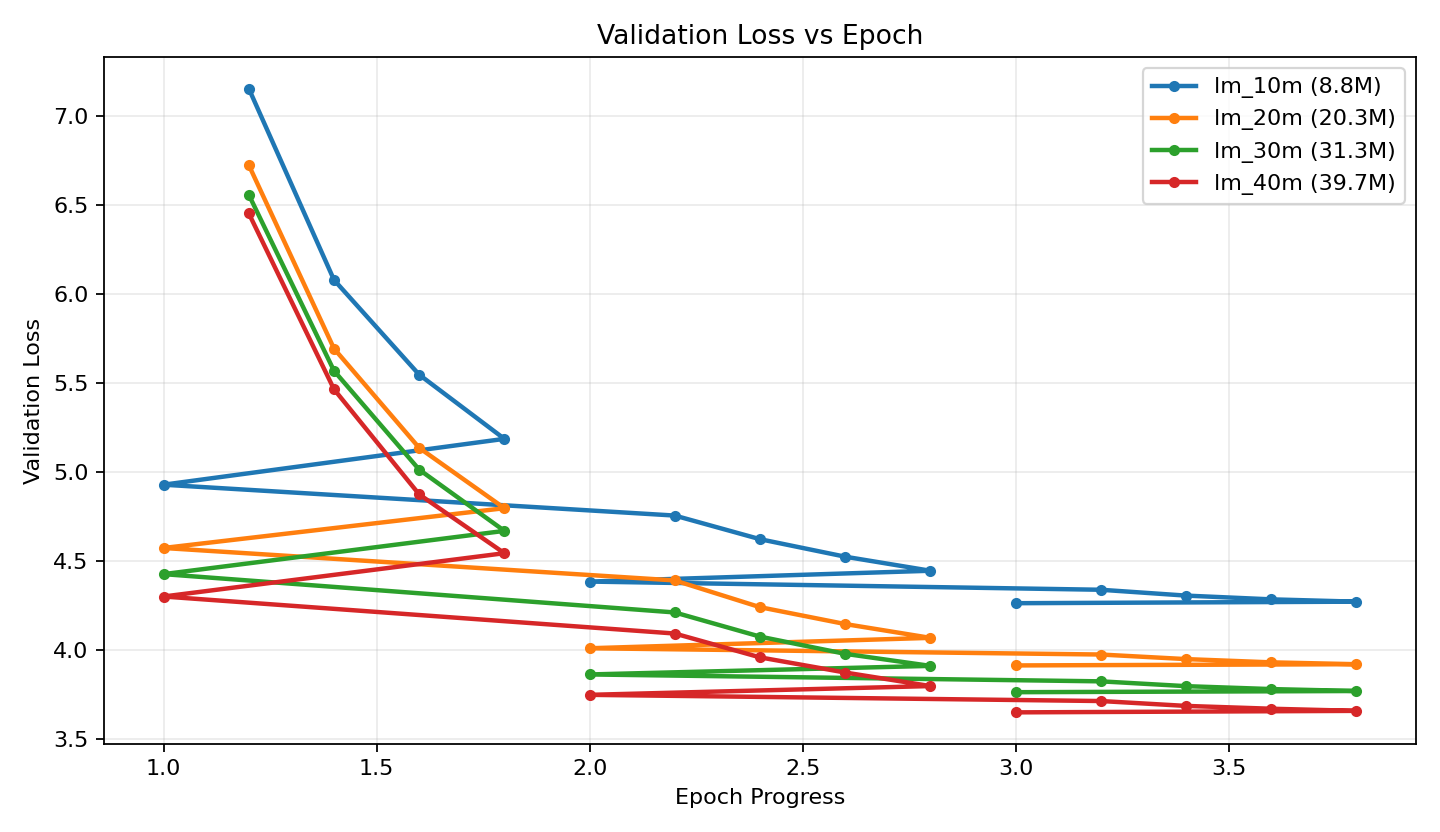
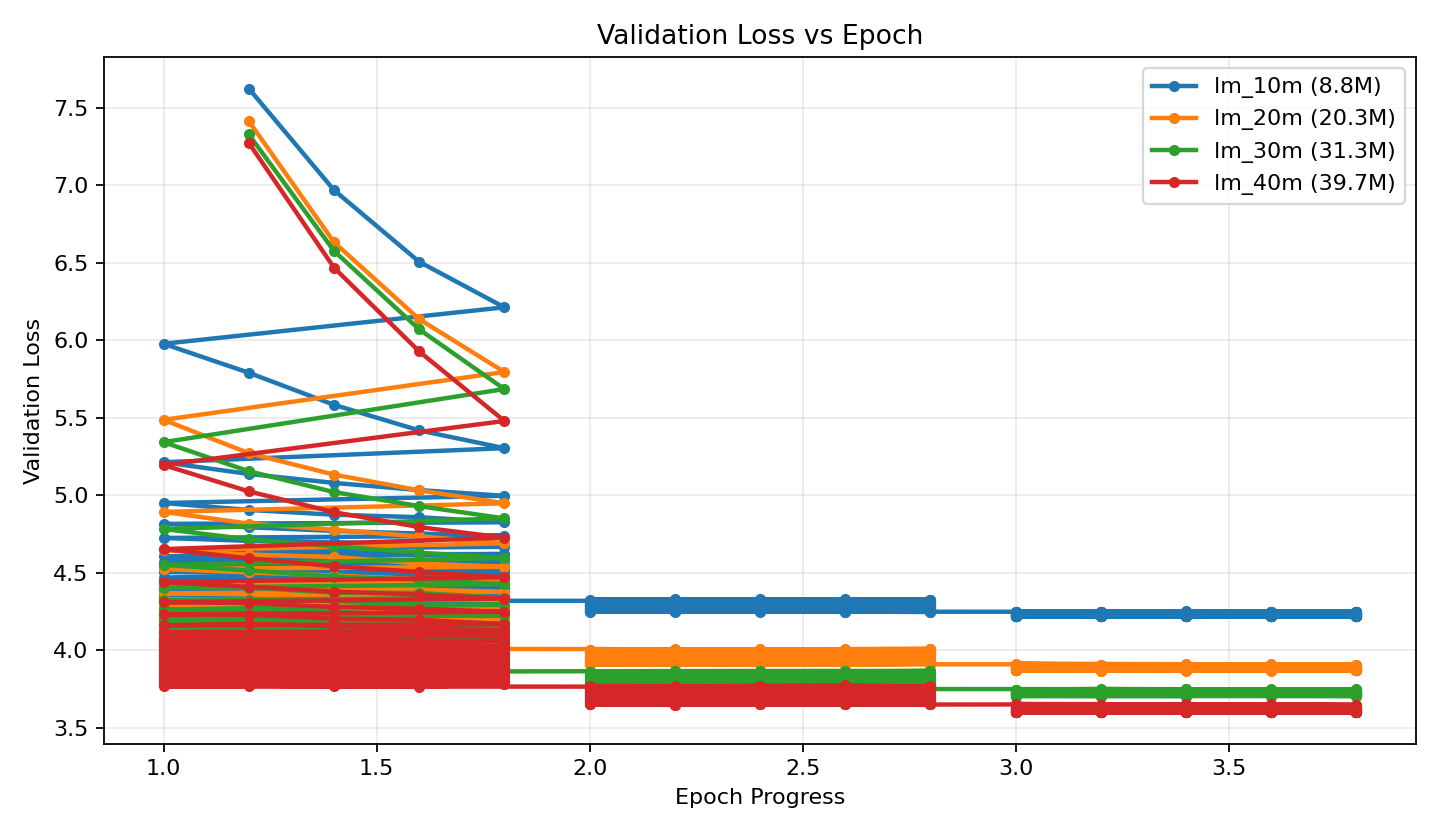
Add project docs and stage 1 results

diff --git a/README.md b/README.md
@@ -163,7 +163,7 @@ The packed LM dataset is built from `data/corpus.txt` into:
 
 The improved prose LM path also adds app-description sources so the base model sees smartphone and application-domain language before task finetuning. Current public sources include Google Play app metadata from MobileRec and Mac App Store description text. These are used as prose documents, not as scraped live store pages.
 
-The first model-size comparison processed about 123M cumulative training token slots over three epochs. That was useful for debugging, but it is still small for judging whether 10M, 20M, 30M, and 40M parameter decoders can learn useful language. The next train-split target is roughly 1B token slots while keeping the same document-style LM format.
+The current full model-size comparison processed about 4.071B cumulative training token slots over three epochs. This is large enough to show a clear size trend, but the generated text is still shallow and repetitive, so the result should be treated as a useful base-LM baseline rather than a finished language model.
 
 The expanded prose corpus can stream additional public text from:
 
@@ -200,39 +200,92 @@ Training launchers default to `--precision bf16` because BF16 uses the same 16-b
 
 For ablation runs, `--overwrite` means a fresh run. The launcher clears the same-name checkpoint/log output before starting and does not resume `latest.pt` or `best.pt`. Without `--overwrite`, it will resume an existing same-name checkpoint when available.
 
-## First Ablation Results
+## Iteration 3: 2026-06-15 Full Stage 1 Language Ablation
 
-The first controlled comparison used the same `lm_prose` dataset, 3 epochs, 7,500 training steps, 122.88M cumulative token slots processed, and 16,384 effective tokens per optimizer update for all four model sizes.
+All four Stage 1/base-LM model configs have now been trained on the same `lm_prose` corpus. In the training metadata this run is recorded as `stage=0`, but conceptually it is the Stage 1 base-language phase: no OCR, instruction, or autocomplete finetuning has been applied.
+
+Common training setup:
+
+- Dataset: `lm_prose`
+- Train rows: 5,309,400 packed 256-token chunks
+- Validation rows: 279,934 packed 256-token chunks
+- Epochs: 3
+- Steps: 248,500
+- Tokens/update: 16,384
+- Tokens seen per model: 4,071,424,000 token slots
+- Optimizer settings: `lr=0.0002`, `min_lr=0.00001`, `warmup_steps=1000`, `weight_decay=0.01`
+- Precision: BF16
+- Label smoothing: `0.0`
+- Output dirs: `checkpoints/lm_10m`, `checkpoints/lm_20m`, `checkpoints/lm_30m`, `checkpoints/lm_40m`
 
 ![Validation loss vs tokens seen](docs/plots/lm_val_loss_vs_tokens.png)
 
 ![Validation loss vs epoch](docs/plots/lm_val_loss_vs_epoch.png)
 
-| Experiment | Parameters | Batch | Accum | Tokens/update | Steps | Tokens seen | Validation loss |
+### Model Configs And Training Results
+
+| Experiment | Config | Layers | Hidden | Heads | FFN | Parameters | Batch | Accum | Final train loss | Final val loss | Final ppl |
+| --- | --- | ---: | ---: | ---: | ---: | ---: | ---: | ---: | ---: | ---: | ---: |
+| `lm_10m` | `model_config_10m.json` | 6 | 256 | 4 | 1,024 | 8,835,072 | 32 | 2 | 3.2237 | 4.2208 | 68.09 |
+| `lm_20m` | `model_config.json` | 8 | 384 | 6 | 1,536 | 20,340,480 | 16 | 4 | 2.8819 | 3.8677 | 47.83 |
+| `lm_30m` | `model_config_30m.json` | 10 | 448 | 7 | 1,792 | 31,311,616 | 8 | 8 | 2.7437 | 3.7047 | 40.64 |
+| `lm_40m` | `model_config_40m.json` | 10 | 512 | 8 | 2,048 | 39,716,864 | 4 | 16 | 2.6767 | 3.6010 | 36.63 |
+
+Best checkpoint metrics:
+
+| Experiment | Best step | Best val loss | Best ppl | Final step | Tokens/param | Train time | Tokens/sec |
 | --- | ---: | ---: | ---: | ---: | ---: | ---: | ---: |
-| `lm_10m` | 8,835,072 | 32 | 2 | 16,384 | 7,500 | 122,880,000 | 4.2634 |
-| `lm_20m` | 20,340,480 | 16 | 4 | 16,384 | 7,500 | 122,880,000 | 3.9137 |
-| `lm_30m` | 31,311,616 | 8 | 8 | 16,384 | 7,500 | 122,880,000 | 3.7632 |
-| `lm_40m` | 39,716,864 | 4 | 16 | 16,384 | 7,500 | 122,880,000 | 3.6499 |
+| `lm_10m` | 243,500 | 4.2178 | 67.88 | 248,500 | 460.83 | 1,687.7 min | 40,208 |
+| `lm_20m` | 248,500 | 3.8677 | 47.83 | 248,500 | 200.16 | 3,165.3 min | 21,438 |
+| `lm_30m` | 248,000 | 3.7042 | 40.62 | 248,500 | 130.03 | 4,930.0 min | 13,764 |
+| `lm_40m` | 247,000 | 3.5988 | 36.55 | 248,500 | 102.51 | 5,978.6 min | 11,350 |
 
-| Experiment | First val loss | Final val loss | Loss drop | Tokens/param | Train minutes | Tokens/sec |
-| --- | ---: | ---: | ---: | ---: | ---: | ---: |
-| `lm_10m` | 7.1565 | 4.2634 | 2.8930 | 13.91 | 43.4 | 47,202 |
-| `lm_20m` | 6.7263 | 3.9137 | 2.8126 | 6.04 | 84.9 | 24,126 |
-| `lm_30m` | 6.5595 | 3.7632 | 2.7963 | 3.92 | 130.1 | 15,744 |
-| `lm_40m` | 6.4547 | 3.6499 | 2.8049 | 3.09 | 156.0 | 13,127 |
+### Language Capability Level
 
-The validation loss improved steadily as parameter count increased. This is the expected direction and suggests that the ablation setup is useful. However, generated text was still weak, so this run should be treated as a pipeline baseline, not a solved base model.
+The strongest objective metric is validation loss on held-out packed prose. By that metric, model size helped consistently: `lm_40m` is best, then `lm_30m`, then `lm_20m`, then `lm_10m`.
 
-Technical notes from this result:
+Qualitative fixed-seed continuation checks on 2026-06-15 showed:
 
-- 122.88M cumulative token slots processed is too small to judge final tiny-LM capability.
-- The larger models benefited from capacity even under the same token budget.
-- The 40M model reached the best validation loss, but it trained about 3.6x slower than the 10M model on the same 4 GB RTX 3050 Laptop GPU.
-- The 10M model saw the most tokens per parameter but still had the worst validation loss, so token-per-parameter alone did not compensate for limited capacity in this setup.
-- All four curves were still descending at the end of 3 epochs, especially the larger models, which suggests the 122.88M-token-slot run was undertrained.
-- The train-loss column from this run was not a reliable cross-model comparison because the logging denominator was fixed after this run; validation loss is the cleaner signal.
-- The next train-split target is around 1B token slots so the same ablation can be repeated at a more meaningful scale.
+- `lm_10m`: can form English sentences, but loops simple phrases and generic words. Capability level: very weak base LM.
+- `lm_20m`: more sentence-like and sometimes topical, but still confuses domains and invents odd facts. Capability level: weak but usable for pipeline checks.
+- `lm_30m`: better grammar and topical consistency, but still repeats app-description style and shallow clauses. Capability level: early base LM.
+- `lm_40m`: best validation loss and most readable continuations, but still repetitive, generic, and not reliable. Capability level: best current base LM, not ready for task finetuning as a language backbone.
+
+Representative samples from `lm_40m`:
+
+```text
+The best place to visit in => the world. The best place to visit is where you can easily find and view more than one hundred people who can be visiting.
+A smartphone camera app can => be installed by using its iPhone or iPad. A mobile phone is a device that uses an iOS device...
+Machine learning is useful because => you are not only an engineer, but also a computer scientist. Features: - Easy to use, easy to use...
+```
+
+### Learnings
+
+- Capacity matters in this setup. The 40M model has the best final validation loss and about 46 percent lower perplexity than the 10M model.
+- The larger models are much slower, but the quality gain is real. `lm_40m` ran at about 11.3k tokens/sec versus about 40.2k tokens/sec for `lm_10m`.
+- The 10M model received the most tokens per parameter, but it still had the worst validation loss. More tokens per parameter did not overcome limited capacity.
+- The current dataset teaches fluent surface text but appears too repetitive and app-description-heavy. Generated text often falls into generic feature-list language.
+- Validation loss alone is not enough. The 40M model has the best loss, but samples still show repetition and weak semantics.
+
+### Mistakes To Avoid Repeating
+
+- Do not start Stage 2/Stage 3 task finetuning yet. The base LM is readable but not strong enough; task finetuning would likely overwrite or narrow it.
+- Do not judge language capability only from loss. Always run a small fixed prompt set after each run.
+- Do not keep scaling steps on the same data if samples plateau into the same generic style. That will mostly strengthen the dataset bias.
+- Do not compare train loss across old runs unless the logging denominator and dataset are known to match. Current comparison should use validation loss and samples.
+
+### Recommendation
+
+Continue with the 40M config, but do not simply repeat the same 40M training on the same `lm_prose` data. The best next experiment is a 40M Stage 1 run on cleaner and broader packed prose:
+
+1. Build a new `lm_prose_v2` corpus with less repeated app-store language and more high-quality general text.
+2. Keep 256 context for the next controlled run so it remains comparable.
+3. Train `lm_40m` first, because it is the best current quality point.
+4. Add a short 20M or 30M control only after the 40M v2 run shows better samples.
+5. Track both validation loss/perplexity and a fixed qualitative prompt set.
+6. Only begin task finetuning after the 40M base model can continue simple prompts without obvious loops.
+
+The practical answer: yes, continue 40M training, but with new data and cleaner corpus balance, not more epochs on the same corpus. If the goal is language capability, data quality and diversity are now the next bottleneck more than architecture.
 
 Plots can be regenerated from local checkpoint CSVs with:
 
@@ -253,13 +306,13 @@ If the base LM still repeats tokens or produces nonsense, task training should n
 
 ## Next Planned Iterations
 
-After Iteration 2 produces a usable base LM:
+After the 2026-06-15 Stage 1 ablation, the next work should improve the 40M base LM before any task-specific training:
 
-1. Add instruction/OCR training with a small learning rate.
-2. Mix LM data during task finetuning to reduce forgetting.
-3. Keep task ratios explicit, for example mostly LM with smaller task batches.
-4. Evaluate plain LM quality after each task stage.
-5. Only keep checkpoints that preserve base continuation quality.
+1. Build `lm_prose_v2` with cleaner, broader packed prose and less repetitive app-description text.
+2. Train `lm_40m` on the new data first, using the same 256-token context and fixed prompt evals.
+3. Compare validation loss, perplexity, and qualitative continuations against the 2026-06-15 `lm_40m` baseline.
+4. Only if the base LM improves, run a smaller 20M or 30M control to check whether the data improvement generalizes.
+5. Add instruction/OCR/autocomplete training later with a small learning rate and a continued LM-data mix to reduce forgetting.
 
 ## Key Lesson
 

diff --git a/docs/index.md b/docs/index.md
@@ -1,0 +1,171 @@
+# Tiniest Decoder Project Notes
+
+This project is an ablation study for very small decoder-only language models. The goal is to learn how far tiny local decoders can go when the tokenizer, data pipeline, context length, optimizer settings, and training budget are controlled carefully.
+
+The project is not trying to build a large general assistant. It is trying to answer a smaller engineering question:
+
+> With the same data and same training setup, how much does decoder size change base language capability?
+
+The current model family compares roughly 9M, 20M, 31M, and 40M parameter decoders trained from scratch on packed prose.
+
+## Project Goal
+
+The long-term target is a small decoder that can run locally and later support narrow skills such as:
+
+- plain language continuation
+- smartphone/application-domain text understanding
+- OCR-style field extraction
+- instruction parsing
+- autocomplete
+
+The current priority is base language modeling. Task-specific training is intentionally paused until the base model can produce stable, readable continuations without obvious repetition loops.
+
+## Architecture Family
+
+All models use the same general decoder design:
+
+- decoder-only transformer
+- SentencePiece tokenizer
+- 16k vocabulary
+- rotary position embeddings
+- causal language modeling objective
+- packed 256-token training chunks for base LM
+- BF16 training where supported
+- gradient checkpointing for small-GPU training
+
+Current comparison configs:
+
+| Experiment | Config | Layers | Hidden | Heads | FFN | Parameters |
+| --- | --- | ---: | ---: | ---: | ---: | ---: |
+| `lm_10m` | `model_config_10m.json` | 6 | 256 | 4 | 1,024 | 8,835,072 |
+| `lm_20m` | `model_config.json` | 8 | 384 | 6 | 1,536 | 20,340,480 |
+| `lm_30m` | `model_config_30m.json` | 10 | 448 | 7 | 1,792 | 31,311,616 |
+| `lm_40m` | `model_config_40m.json` | 10 | 512 | 8 | 2,048 | 39,716,864 |
+
+## Iteration History
+
+### Iteration 1: Mixed-Stage Training
+
+The first useful run trained a roughly 20M parameter decoder through multiple stages:
+
+- Stage 1: plain language modeling on mixed text
+- Stage 2: supervised OCR/instruction data
+- Stage 3: OCR/instruction/autocomplete mixture
+
+The training completed, but the model was not useful as a language model. In interactive tests it repeated tokens, fell into subword loops, and failed to continue normal prose reliably.
+
+Main failure causes:
+
+- Padding token `0` was trained as a target instead of being ignored with `-100`.
+- The base LM corpus was mostly short fragments rather than dense packed prose.
+- Task finetuning came before the base LM was coherent.
+- Stage 3 task data likely overwrote weak base-language behavior.
+- Label smoothing made next-token learning less sharp for this tiny scratch-trained model.
+
+The lesson from Iteration 1 was simple: do not add task behavior before the base language model is stable.
+
+### Iteration 2: Base LM First
+
+The second strategy reset the project around base LM quality:
+
+- train only the language model first
+- pack text into full token chunks
+- ignore padding labels correctly
+- remove label smoothing for base LM
+- compare multiple model sizes under the same token budget
+- delay OCR, instruction, and autocomplete training
+
+This iteration added the controlled ablation setup and the 40M config. It also established the rule that only the model config and physical batch/accumulation split should change between ablation runs.
+
+### Iteration 3: 2026-06-15 Stage 1 Language Ablation
+
+All four model configs were trained on the same `lm_prose` corpus.
+
+Common setup:
+
+- Dataset: `lm_prose`
+- Train rows: 5,309,400 packed 256-token chunks
+- Validation rows: 279,934 packed 256-token chunks
+- Epochs: 3
+- Steps: 248,500
+- Tokens/update: 16,384
+- Tokens seen per model: 4,071,424,000 token slots
+- Precision: BF16
+- Label smoothing: `0.0`
+- Learning rate: `0.0002`
+- Minimum learning rate: `0.00001`
+- Warmup: 1,000 steps
+- Weight decay: `0.01`
+
+## Current Results
+
+The main objective metric is validation loss on held-out packed prose. Perplexity is computed from validation loss.
+
+| Experiment | Final train loss | Final val loss | Final ppl | Best val loss | Best ppl | Tokens/sec |
+| --- | ---: | ---: | ---: | ---: | ---: | ---: |
+| `lm_10m` | 3.2237 | 4.2208 | 68.09 | 4.2178 | 67.88 | 40,208 |
+| `lm_20m` | 2.8819 | 3.8677 | 47.83 | 3.8677 | 47.83 | 21,438 |
+| `lm_30m` | 2.7437 | 3.7047 | 40.64 | 3.7042 | 40.62 | 13,764 |
+| `lm_40m` | 2.6767 | 3.6010 | 36.63 | 3.5988 | 36.55 | 11,350 |
+
+![Validation loss vs tokens seen](plots/lm_val_loss_vs_tokens.png)
+
+![Validation loss vs epoch](plots/lm_val_loss_vs_epoch.png)
+
+## Where We Stand
+
+The ablation is working. Larger models consistently produce better validation loss under the same training setup.
+
+Current quality ranking:
+
+1. `lm_40m`: best objective metrics and most readable samples.
+2. `lm_30m`: second-best, noticeably better than 20M.
+3. `lm_20m`: usable for pipeline checks but weak as a language model.
+4. `lm_10m`: can form English, but repeats heavily and lacks capacity.
+
+The best current model is `lm_40m`, but it is not ready for task finetuning. It can produce readable continuations, yet the text is still generic, shallow, repetitive, and biased toward app-description style.
+
+Representative `lm_40m` behavior:
+
+```text
+The best place to visit in => the world. The best place to visit is where you can easily find and view more than one hundred people who can be visiting.
+A smartphone camera app can => be installed by using its iPhone or iPad. A mobile phone is a device that uses an iOS device...
+Machine learning is useful because => you are not only an engineer, but also a computer scientist. Features: - Easy to use, easy to use...
+```
+
+## Key Learnings
+
+Capacity matters. The 40M model has the best validation loss and about 46 percent lower final perplexity than the 10M model.
+
+Tokens per parameter are not enough by themselves. The 10M model saw the most tokens per parameter but still had the worst validation loss.
+
+Validation loss is necessary but not sufficient. The 40M model is objectively best, but qualitative samples show that the language capability is still early.
+
+Data quality is now the bottleneck. More epochs on the same `lm_prose` data will likely strengthen the same generic app-description bias.
+
+Task finetuning should wait. OCR, instruction parsing, and autocomplete should not resume until the base LM can continue simple prose without loops.
+
+## Mistakes To Avoid
+
+- Do not train padding as a target.
+- Do not train on mostly short, padded fragments for base LM.
+- Do not mix task finetuning into a weak base LM.
+- Do not judge a model only by training loss.
+- Do not continue scaling the same data if qualitative samples have plateaued into repetitive style.
+- Do not compare experiments unless tokenizer, data, context length, tokens/update, and validation split are controlled.
+
+## Recommended Next Step
+
+Continue with the 40M config, but train it on cleaner and broader data.
+
+The next useful experiment should be:
+
+1. Build `lm_prose_v2`.
+2. Reduce repeated app-store style text.
+3. Add broader high-quality prose.
+4. Keep packed 256-token chunks for comparability.
+5. Train `lm_40m` first.
+6. Compare against the 2026-06-15 `lm_40m` baseline using validation loss, perplexity, and fixed prompt samples.
+7. Only run 20M/30M controls after the 40M v2 result proves the data improved language behavior.
+
+The current project state is a good controlled baseline, not a finished decoder. The next improvement should come from corpus quality and balance before architecture changes or task finetuning.
